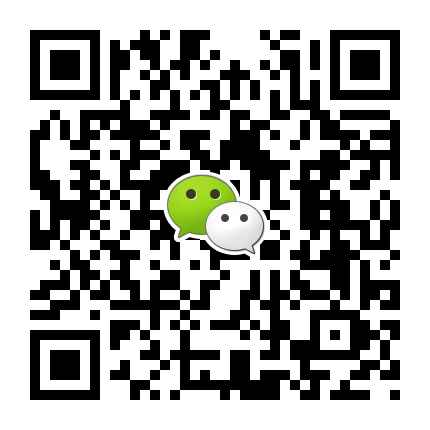
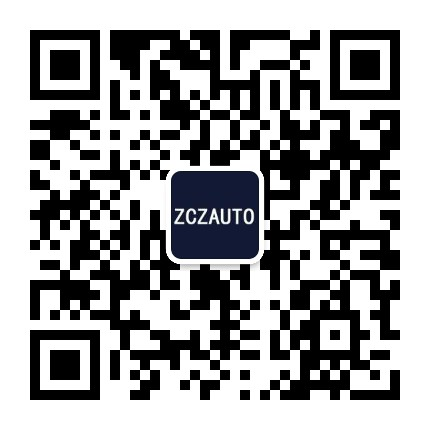
添加微信二维码

diff --git a/public/assets/css/main.css b/public/assets/css/main.css
@@ -672,7 +672,7 @@ input::-ms-clear {
 
 #footer .down .downCon img {
 	display: inline-block;
-	width: 115px;
+	width: 160px;
 	height: 153px;
 	position: absolute;
 	top: -157px;

diff --git a/resources/views/desktop/layout/_main.blade.php b/resources/views/desktop/layout/_main.blade.php
@@ -75,6 +75,17 @@
 							$.post('/User/getGroupId',{'username':username},function(data){
 								if(data == 2) $(".vipbs-icon").show();
 							});
+							$(document).ready(function(){
+								$(".hoverwx").hover(
+										function(){
+											$(".wximg").show();	
+										}
+									,function(){
+										$(".wximg").hide();	
+									}	
+								);
+							});
+							
 						</script>
 					</dd>
 					<dd>
@@ -145,8 +156,8 @@
 						</a>
 
 						<a href="#" class="csc-wx relative" title="扫码微信咨询:zczauto">
-						<img src="{{ _asset('assets/images/csc-wx.png') }}"/>
-						<img src="{{ _asset('assets/images/csc-wx-code.png') }}" alt="扫描加客户微信" class="csc-wx-code"/>
+						<img class="hoverwx" src="{{ _asset('assets/images/csc-wx.png') }}"/>
+						<img src="{{ _asset('assets/images/csc-wx-code.png') }}" alt="扫描加客户微信" class="wximg csc-wx-code"/>
 						</a>
 					</div>
 				</div>
